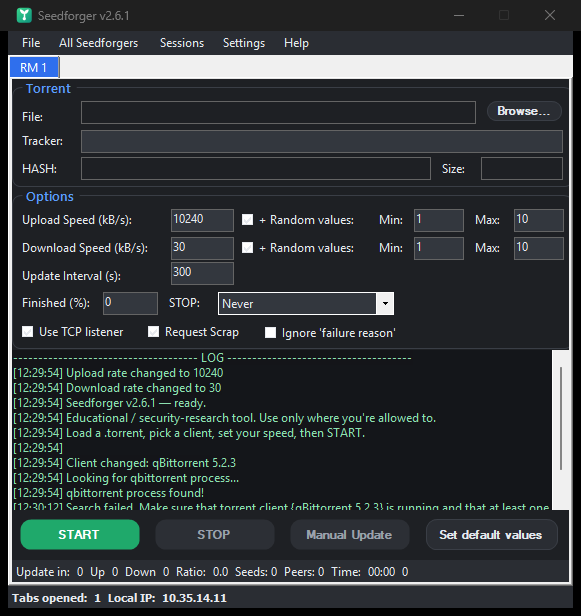
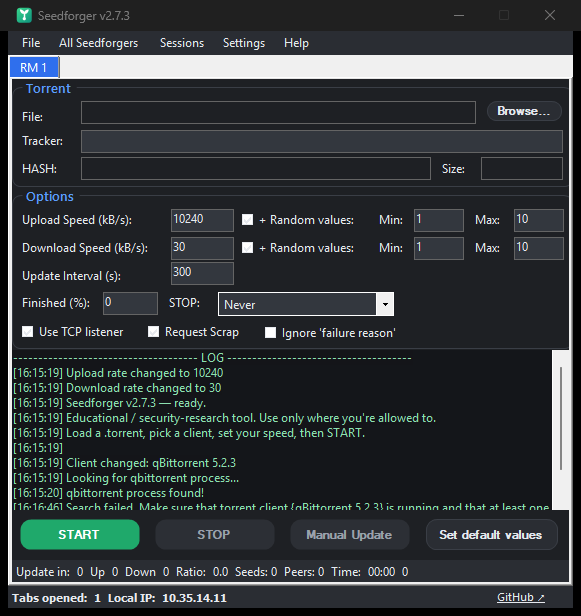
README: a proper flagship landing page
Rewrite the README as a complete, admirable showcase while keeping the
docs/ pages as the deep reference: hero + badges + a 2x2 gallery
(app, campaign builder, guided setup), a highlights reel, the anti-cheat
model, a believability-ladder table, the real-peer-engine story, a
collapsible feature tour, campaigns, architecture, build, and a docs
index. Bulletproof table-of-contents via explicit HTML anchors (emoji
headings otherwise slug unpredictably). Refresh the dark screenshot to
show the fixed combo boxes; add guided-setup shots.

diff --git a/README.md b/README.md
@@ -2,53 +2,314 @@
 
 # 🌱 Seedforger
 
-**Tell any BitTorrent tracker whatever upload/download stats you want — without moving a single byte.**
+### Tell any BitTorrent tracker whatever upload/download stats you want — without moving a single byte.
 
-A modern **.NET 8** revival of the classic *RatioMaster*, rebuilt as a believability engine.
+A modern, from-the-ground-up **.NET 8** revival of the classic *RatioMaster*, rebuilt as a **believability engine** — not just a number generator.
 
 ![Seedforger](.github/social-preview.png)
 
 [![CI](https://github.com/Guillain-RDCDE/Seedforger/actions/workflows/ci.yml/badge.svg)](https://github.com/Guillain-RDCDE/Seedforger/actions/workflows/ci.yml)
-[![.NET 8](https://img.shields.io/badge/.NET-8.0-512BD4)](https://dotnet.microsoft.com/download/dotnet/8.0)
-[![Release](https://img.shields.io/github/v/release/Guillain-RDCDE/Seedforger?color=2ea043)](../../releases/latest)
-[![License: MIT](https://img.shields.io/badge/License-MIT-green.svg)](LICENSE)
+[![.NET 8](https://img.shields.io/badge/.NET-8.0-512BD4?logo=dotnet&logoColor=white)](https://dotnet.microsoft.com/download/dotnet/8.0)
+[![Release](https://img.shields.io/github/v/release/Guillain-RDCDE/Seedforger?color=2ea043&label=download)](../../releases/latest)
+[![Tests](https://img.shields.io/badge/tests-108%20passing-2ea043)](Seedforger.Tests)
+[![Platform](https://img.shields.io/badge/platform-Windows-0078D6?logo=windows&logoColor=white)](../../releases/latest)
+[![License: MIT](https://img.shields.io/badge/License-MIT-blue.svg)](LICENSE)
 
-<img src="docs/screenshots/main-dark.png" width="440" alt="Seedforger — one tab per torrent, live log, light & dark themes">
+**[Get started](docs/getting-started.md) · [How it works](docs/how-it-works.md) · [Features](docs/features.md) · [From-the-wire deep dive](docs/how-bittorrent-works.md)**
+
+<table>
+  <tr>
+    <td width="50%"><img src="docs/screenshots/main-dark.png" alt="Seedforger main window, dark theme"></td>
+    <td width="50%"><img src="docs/screenshots/campaign-builder.png" alt="Visual campaign builder"></td>
+  </tr>
+  <tr>
+    <td align="center"><em>One tab per torrent · realistic speeds · live log · light &amp; dark</em></td>
+    <td align="center"><em>Visual campaign builder — set a goal, no JSON</em></td>
+  </tr>
+  <tr>
+    <td width="50%"><img src="docs/screenshots/guided-setup.png" alt="Guided setup — do you have it?"></td>
+    <td width="50%"><img src="docs/screenshots/guided-ready.png" alt="Guided setup — ready to seed"></td>
+  </tr>
+  <tr>
+    <td align="center"><em>Guided setup teaches the one rule that keeps you safe…</em></td>
+    <td align="center"><em>…then probes the swarm and only starts on a torrent that works</em></td>
+  </tr>
+</table>
 
 </div>
 
 ---
 
-Seedforger announces **fake progress** (uploaded / downloaded / left) to a torrent tracker, impersonating a **real, current BitTorrent client** — matching `peer_id` and `User-Agent` — so the announce looks exactly like the real thing. No files are ever transferred; only the numbers the tracker sees are made up. It runs **independently of your torrent client** — you don't even need one installed.
+## What is this?
 
-The hard part isn't sending a fake number — anyone can do that, and it gets you banned. The hard part is making it **believable**: realistic speeds, swarm-aware demand, human timing, and even a real peer-wire engine that serves hash-verified data. That's what this project is about. → **[How it actually works](docs/how-it-works.md)**
+A torrent tracker keeps score of how much you upload — but it can't actually *watch* you upload. It just **believes the number your client reports**. Seedforger is a client that reports whatever number you tell it: give it a `.torrent`, say *"pretend I'm seeding,"* and it quietly tells the tracker that story, over and over, so your stats climb. No files are transferred; it doesn't even need a torrent client installed.
+
+But sending a fake number is the easy part — **anyone can do that, and it gets you banned.** The whole point of Seedforger is making the number *believable*: shaping speeds like a real home line, tying them to the swarm's real demand, keeping announce timing human, staying under a statistical governor, and — if you want to go all the way — running a **real peer-wire engine that serves genuine, hash-verified data**, so even a tracker's monitoring spies see a legitimate peer.
+
+It's equal parts a working tool and a guided tour of how BitTorrent's trust model really works.
 
 > [!WARNING]
-> **Educational / security-research tool.** Faking your ratio breaks the rules of virtually every private tracker and **can get you banned**. Nothing here makes fake stats undetectable. Only use it where you are allowed to.
+> **Educational / security-research tool.** Faking your ratio breaks the rules of virtually every private tracker and **can get you banned**. Nothing here makes fake stats *undetectable* — it makes them *consistent and human-shaped*. Only use it where you're allowed to. You alone are responsible for what you do with it.
 
-## Download
+---
 
-Grab a build from the **[latest release](../../releases/latest)**:
+## Table of contents
 
-| | Size | Needs |
+- [✨ Highlights](#highlights)
+- [⬇️ Download](#download)
+- [🚀 Quick start](#quick-start)
+- [🧭 How it actually works (no code)](#how-it-works)
+- [🛡️ The believability ladder](#ladder)
+- [🔬 Going all the way: the real peer engine](#real-peer-engine)
+- [✨ Feature tour](#features)
+- [🎯 Campaigns](#campaigns)
+- [⚙️ Configuration](#configuration)
+- [🏗️ Architecture](#architecture)
+- [🔧 Build &amp; test](#build)
+- [📚 Documentation](#documentation)
+- [🌱 Lineage &amp; credits](#credits)
+
+---
+
+<a id="highlights"></a>
+## ✨ Highlights
+
+- 🎭 **Impersonates real, current clients** — data-driven database of **47** clients with accurate `peer_id` + `User-Agent` fingerprints (qBittorrent, Transmission 4, Deluge 2, libtorrent…), verified against libtorrent's `generate_fingerprint` and each client's source.
+- 🌊 **Swarm-aware realism** — reads the tracker's live leecher/seeder counts and scales your reported speed to match. Zero leechers ⇒ a trickle; nobody to feed, nothing claimed.
+- 🕵️ **Stealth by default** — ramp-up + gentle wobble instead of a flat line, announce-interval jitter, a day/night rhythm, active-hours windows, and believability warnings.
+- 🔬 **A real peer-wire engine** — optionally serve genuine, SHA-1-verified blocks over TCP, capped by a statistical governor, to defeat trackers that inject spy peers.
+- 🎯 **Goal-seeking campaigns** — hand it *"reach ratio 2.0 in two weeks"* and it staggers starts, splits bandwidth by real demand, paces to the deadline, and auto-stops.
+- 🧭 **Guided setup (newbie mode)** — a wizard that probes each torrent against the tracker and loops until it finds one that will actually earn ratio, then sets safe defaults and starts.
+- 💾 **Portable & self-contained** — a single `.exe`, no installer, no registry. Everything lives in `settings.json` next to it.
+- 🎨 **Polished UX** — flat light/dark themes (DWM dark title bar), English/French, a live upload/ratio graph, and a silent auto-update check.
+- 🔒 **HTTPS + proxy** — full TLS trackers via `SslStream`, and SOCKS4/4a/5 + HTTP-CONNECT.
+- ✅ **108 tests, green CI** — fingerprints, bencode, the shaper, swarm/stealth math, a loopback peer-wire integration test, and more.
+
+---
+
+<a id="download"></a>
+## ⬇️ Download
+
+Grab a build from the **[latest release](../../releases/latest)** — pick the one that suits you:
+
+| Download | Size | Starts up | Needs |
+|---|---|---|---|
+| ⭐ **`Seedforger-lite.exe`** *(recommended)* | ~0.5 MB | **fastest** | the free [.NET 8 Desktop Runtime](https://dotnet.microsoft.com/download/dotnet/8.0/runtime) (one-time install) |
+| **`Seedforger.exe`** | ~68 MB | slower to launch | **nothing at all** — fully self-contained |
+
+Either way it's a **single file, no installer** — drop it anywhere (USB stick included) and double-click. Seedforger also checks for newer releases silently at launch and offers the update if there is one.
+
+> **Which one?** The self-contained build bundles the whole .NET runtime, so it's big and your antivirus rescans all 68 MB every launch. The lite build is a tiny 0.5 MB, starts ~2× faster, and just asks you to install the runtime once. Not sure if you have .NET? Grab lite first — Windows will offer you the installer if it's missing.
+
+---
+
+<a id="quick-start"></a>
+## 🚀 Quick start
+
+**New here? Use the wizard.** Open **File → Guided setup (newbie mode)** and it walks you through everything one click at a time — and, crucially, **asks the tracker whether each torrent will actually work** before you commit. → full walkthrough in **[Getting started](docs/getting-started.md)**.
+
+**Prefer to drive?**
+
+1. **Browse…** and pick a `.torrent` you actually have.
+2. Set **Finished = 100** (you're a seeder) and pick a **Connection profile** (Settings) for a believable speed.
+3. Choose a client — **qBittorrent 5.2.3** is a great, modern default.
+4. Hit the green **START**. Watch the **Ratio** and the log climb; **STOP** when done.
+
+> **The golden rule:** only seed files you *actually downloaded once, for real.* A tracker's monitoring peers will request real pieces — claiming to seed what you can't deliver is the surest way to get caught. The [golden rules](docs/getting-started.md#4-the-golden-rules-stay-believable) list the rest.
+
+---
+
+<a id="how-it-works"></a>
+## 🧭 How it actually works (no code)
+
+**1. The tracker trusts you.** Every few minutes a real client reports *"I'm client X, I've now uploaded N bytes."* The tracker has **no way to independently measure** your upload — it just adds up what you send. That trust is the entire attack surface.
+
+**2. So why not just send a huge number?** Because private trackers run anti-cheat, and a lone big number is easy to spot:
+
+| The tracker asks… | …and a naïve faker fails because |
+|---|---|
+| *Is this a real, allowed client?* | its `peer_id`/`User-Agent` isn't whitelisted, or they disagree |
+| *Is this speed physically possible?* | it "uploaded" faster than any home line, or more than the file's size |
+| *Is the timing human?* | it announces like a metronome, or more often than allowed |
+| *Do the numbers add up?* | announce totals don't match the scrape data or `left` |
+| *Is there a real peer behind this?* | the port never accepts a connection; no monitored peer ever got a byte |
+
+**3. Seedforger's job is to pass every one of those checks** — which is the believability ladder below. And **4. the honest limit:** none of it is magic. A tracker that correlates announces against *real* peer connections can still catch you. → the full model, in prose, lives in **[How it actually works](docs/how-it-works.md)**.
+
+---
+
+<a id="ladder"></a>
+## 🛡️ The believability ladder
+
+From cheap to deep — each rung answers one of the tracker's questions:
+
+| # | Rung | What it does |
 |---|---|---|
-| ⭐ **`Seedforger-lite.exe`** *(recommended)* | ~0.5 MB | the free [.NET 8 Desktop Runtime](https://dotnet.microsoft.com/download/dotnet/8.0/runtime) |
-| **`Seedforger.exe`** | ~68 MB | nothing — fully self-contained |
+| 1 | **Look like a real client** | accurate, *current* fingerprints (`-qB5230-`, `-TR4130-`…), optional client rotation, even Transmission's `peer_id` checksum |
+| 2 | **Move at a believable speed** | connection profiles (ADSL→fibre), a ramp-up + gentle wobble instead of a flat line, and a global upstream budget shared across all tabs |
+| 3 | **Only feed demand that exists** | swarm-aware speeds read the live leecher/seeder counts — 0 leechers ⇒ a trickle, your share diluted by competing seeders |
+| 4 | **Keep timing human** | interval jitter (drift *later*, never early), a day/night rhythm, and active-hours windows |
+| 5 | **Be a connectable peer** | answer inbound handshakes with a full bitfield + choke — a visible, complete seeder that transfers nothing |
+| 6 | **Survive active spies** | serve genuine, hash-valid data with the real peer engine, and claim only `served × plausible peers` — [see below](#real-peer-engine) |
 
-Single file, no installer. New here? Open **File → Guided setup (newbie mode)** and it walks you through everything.
-→ **[Getting started](docs/getting-started.md)**
+---
 
-## Documentation
+<a id="real-peer-engine"></a>
+## 🔬 Going all the way: the real peer engine
 
-- 🚀 **[Getting started](docs/getting-started.md)** — install, guided setup, the golden rules, FAQ.
-- 🧭 **[How it actually works](docs/how-it-works.md)** — the anti-cheat model and how Seedforger stays believable. No code.
-- ✨ **[Features](docs/features.md)** — the full catalogue: impersonation, stealth, swarm-aware speeds, the real peer engine, campaigns.
-- ⚙️ **[Configuration](docs/configuration.md)** — custom client fingerprints (`clients.json`) and campaigns (`campaign.json`).
-- 🔧 **[Build from source](docs/build.md)** — build, publish, project layout, tests.
-- 📖 **[How BitTorrent actually works](docs/how-bittorrent-works.md)** — a from-the-wire deep dive, bencode to the peer engine.
+An announce-only tool has one irreducible tell: a tracker can inject **monitoring peers** that don't just read your bitfield — they *request* real pieces and check you deliver. The only way past them is to **serve real data**. Seedforger can (*File → Serve a real file*), leaning on one elegant fact: **a spy only ever sees its own connection.** Serve real data at a steady per-peer rate, claim a total of `served × plausible peers`, and no single observer can refute it.
 
-## Credits & license
+<details>
+<summary><strong>The four stages + the governor</strong></summary>
 
-Lineage: **RatioMaster** → [NikolayIT/RatioMaster.NET](https://github.com/NikolayIT/RatioMaster.NET) → [sergiye/RatioMaster](https://github.com/sergiye/RatioMaster) → **Seedforger** (a .NET 8 rewrite with a modern client database, HTTPS, swarm-aware announces, a real peer-wire engine, a campaign orchestrator, i18n, themes and a redesigned UI).
+| Stage | What it does |
+|---|---|
+| **A — serve from a local file** | `FilePieceSource` reads blocks and **verifies each piece's SHA-1** before serving; `PeerSession` runs handshake → bitfield → unchoke → `piece`. |
+| **B — relay on demand** | `RelayPieceSource` serves pieces you don't hold by fetching them from a real seeder, verifying, caching, relaying — a swarm proxy that stores no whole file. |
+| **C — behave like a real peer** | `SeederChoke` round-robins unchoke slots; the **BEP 10** extension handshake advertises `ut_pex` / `ut_metadata`. |
+| **D — verifiable transfer** | `PeerClient` performs a real handshake + block download + hash-verify — the thing a spy actually measures. |
+| **The governor** | `Governor.CapAnnounced` keeps the claim ≤ `served × plausible peers`, so you never claim more than you could defend. |
 
-[MIT](LICENSE) — provided **as-is**, no warranty. Do the right thing.
+> Past this point, "faking convincingly" quietly converges on *being a real (if lazy) BitTorrent client that moves real data* — which is the honest note the whole exercise ends on. Scope: **TCP-only** (no µTP), PEX/metadata built but not live-negotiated, validated over loopback. Full write-up: [deep dive §13½](docs/how-bittorrent-works.md#13-the-deep-end-actually-participating-in-the-swarm).
+
+</details>
+
+---
+
+<a id="features"></a>
+## ✨ Feature tour
+
+<details open>
+<summary><strong>🎭 Realistic client impersonation</strong></summary>
+
+- **Client database** — data-driven profiles (**47 clients**), extensible via an external [`clients.json`](docs/configuration.md#custom--updated-fingerprints-without-rebuilding), no recompile.
+- **Modern fingerprints** — qBittorrent, Transmission, Deluge, libtorrent, µTorrent + the legacy zoo; verified to the source.
+- **peer_id fidelity** — client-specific quirks incl. **Transmission's checksum**, so ids validate byte-for-byte.
+- **Client rotation** — optionally look like a fresh client every start.
+- **Byte-accurate HTTP** — header order and `User-Agent` hand-built to match, even over TLS.
+</details>
+
+<details>
+<summary><strong>🕵️ Believability &amp; stealth</strong></summary>
+
+- **`SpeedShaper`** — ramp-up + mean-reverting random walk instead of flat noise.
+- **Interval jitter** — drift *later* (0–12%), never earlier than the tracker's `interval`.
+- **Day/night rhythm + active hours** — a diurnal curve and an optional window (handles the midnight wrap).
+- **Believability warnings** — flags physically implausible setups at START.
+- **Connectable seeder** — full bitfield then a choke on inbound handshakes.
+</details>
+
+<details>
+<summary><strong>🌊 Swarm-aware realism</strong></summary>
+
+- **Swarm-aware speeds** — scaled by real leecher/seeder counts.
+- **Global upstream budget** — one uplink, shared fairly across all tabs.
+- **Statistical governor** — announced upload capped to `served × plausible peers`.
+</details>
+
+<details>
+<summary><strong>🔌 Connectivity, inputs &amp; UX</strong></summary>
+
+- **HTTPS trackers** (`SslStream`, byte-accurate raw request) · **Proxy** (SOCKS4/4a/5 + HTTP-CONNECT).
+- **Magnet & batch** — infohash-only magnets, or a whole folder of `.torrent`s into tabs.
+- **Auto-stop targets** — time, uploaded, downloaded, ratio, or seeders/leechers.
+- **Dry-run** — *Test announce* sends one announce and shows the tracker's verdict.
+- **Guided setup**, **light/dark themes**, **English/French**, **live graph**, **portable settings**, **silent update check**.
+</details>
+
+*Full catalogue with every detail: **[Features](docs/features.md)**.*
+
+---
+
+<a id="campaigns"></a>
+## 🎯 Campaigns
+
+Instead of babysitting tabs, hand Seedforger an *intent*. **File → New campaign…** opens a visual builder (no JSON): a goal (*ratio 2.0* or *200 GB by a deadline*), a connection profile, active hours, and a torrent folder. It then **staggers** the starts, **splits the upstream toward torrents that actually have leechers**, **paces** the total toward the deadline so you don't finish suspiciously early, and **auto-stops** at the goal — because launching everything at once, flat out, is exactly what a bot looks like.
+
+Under the hood it's a `campaign.json` you can Save/Load — see [Configuration → Campaigns](docs/configuration.md#campaigns-goal-seeking-orchestrator).
+
+---
+
+<a id="configuration"></a>
+## ⚙️ Configuration
+
+Two optional JSON files, both dropped next to the exe on first launch, both editable without recompiling:
+
+- **`clients.json`** — add or override client fingerprints (ship tomorrow's qBittorrent the day it releases).
+- **`campaign.json`** — declarative campaigns (or just use the visual builder).
+
+Formats and examples: **[Configuration](docs/configuration.md)**.
+
+---
+
+<a id="architecture"></a>
+## 🏗️ Architecture
+
+```
+Seedforger/
+├─ Program.cs                 entry point, single-instance, code-page provider
+├─ TorrentClientFactory.cs    data-driven client lookup + clients.json merge
+├─ DefaultClientProfiles.cs   the 47 built-in client profiles
+├─ SpeedShaper.cs             realistic ramp-up / speed variation
+├─ Stealth.cs · SwarmModel.cs · Bandwidth.cs   believability + swarm + budget
+├─ HttpsTransport.cs          TLS transport for https:// trackers
+├─ UpdateChecker.cs           silent GitHub release check at launch
+├─ Theme.cs · Localization.cs · GraphForm.cs   themes, i18n, live graph
+├─ GuideForm.cs               guided setup (newbie mode) wizard
+├─ Peer/                      the real peer-wire engine (stages A–D + governor)
+├─ Campaign/                  orchestrator + visual builder (CampaignForm)
+├─ BitTorrent/                bencode + .torrent parsing
+├─ BytesRoads/                SOCKS / HTTP-CONNECT proxy sockets
+└─ RM.cs · MainForm.cs        the WinForms UI
+Seedforger.Tests/             108 xUnit tests
+docs/                         getting-started · how-it-works · features · configuration · build · the deep dive
+```
+
+---
+
+<a id="build"></a>
+## 🔧 Build & test
+
+Requires the **.NET 8 SDK** (`dotnet --version` ≥ 8).
+
+```bash
+dotnet build Seedforger.sln -c Release
+dotnet test  Seedforger.Tests/Seedforger.Tests.csproj      # 108 tests
+
+# lite single-file exe (needs the .NET 8 Desktop runtime installed)
+dotnet publish Seedforger/Seedforger.csproj -c Release -r win-x64 \
+  --self-contained false -p:PublishSingleFile=true
+```
+
+Full build/publish notes, the startup-size gotcha, and the test breakdown: **[Build from source](docs/build.md)**.
+
+---
+
+<a id="documentation"></a>
+## 📚 Documentation
+
+| Page | What's inside |
+|---|---|
+| 🚀 **[Getting started](docs/getting-started.md)** | install, guided setup, the golden rules, FAQ |
+| 🧭 **[How it actually works](docs/how-it-works.md)** | the anti-cheat model and the believability response — no code |
+| ✨ **[Features](docs/features.md)** | the full catalogue, every detail |
+| ⚙️ **[Configuration](docs/configuration.md)** | `clients.json` and `campaign.json` |
+| 🔧 **[Build from source](docs/build.md)** | build, publish, project layout, tests |
+| 📖 **[How BitTorrent actually works](docs/how-bittorrent-works.md)** | a from-the-wire deep dive: bencode → the peer engine |
+
+---
+
+<a id="credits"></a>
+## 🌱 Lineage & credits
+
+Seedforger stands on a long open-source lineage:
+
+**RatioMaster** → [NikolayIT/RatioMaster.NET](https://github.com/NikolayIT/RatioMaster.NET) (MIT) → [sergiye/RatioMaster](https://github.com/sergiye/RatioMaster) → **Seedforger**
+
+— a .NET 8 rewrite that adds a modern client database, HTTPS, realistic & swarm-aware announces, a real peer-wire engine, a goal-seeking campaign orchestrator, a guided newbie mode, i18n, themes, portable settings, and a redesigned UI. Keeping the MIT lineage intact.
+
+## License
+
+[MIT](LICENSE) — provided **as-is**, with no warranty. Do the right thing.
+
+<div align="center"><sub>Built with care. If this taught you something about how BitTorrent trust really works, it did its job. 🌱</sub></div>